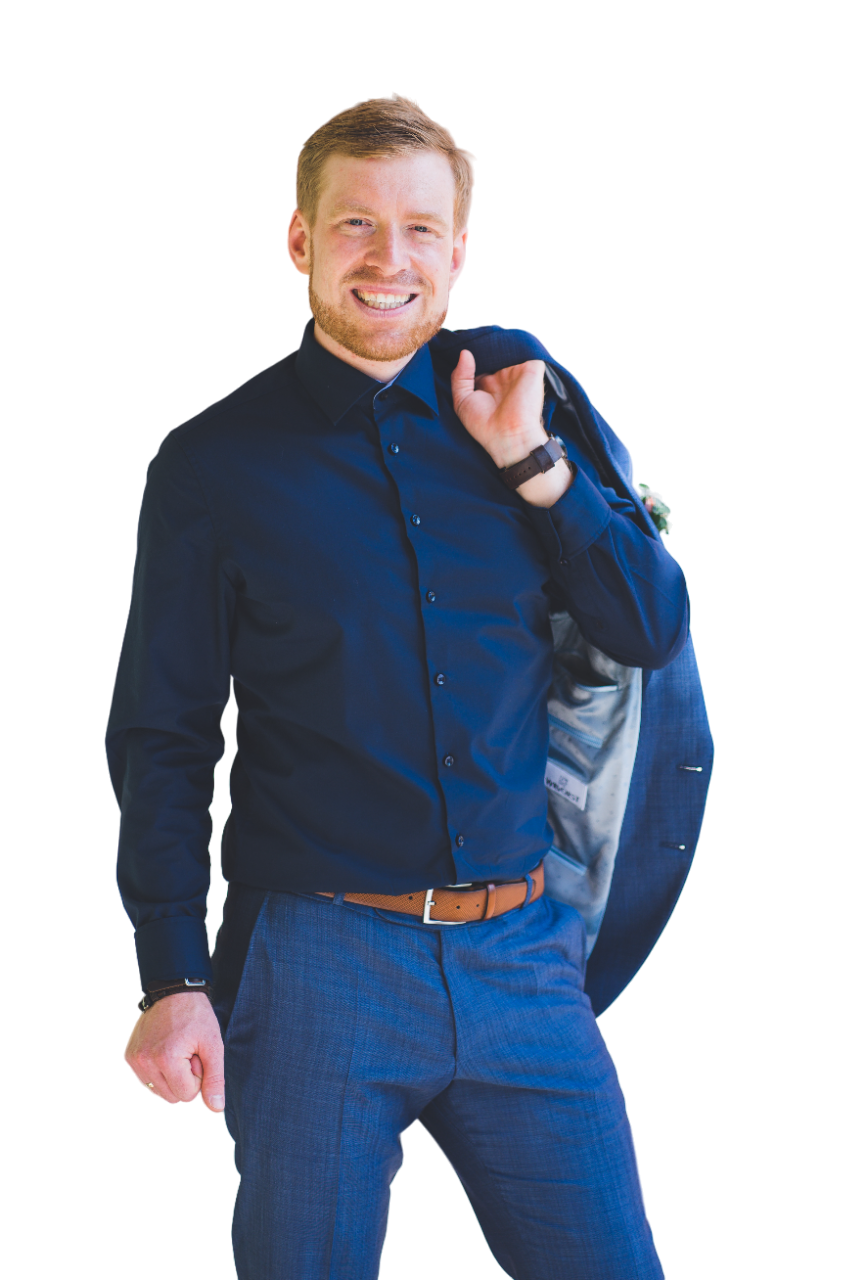
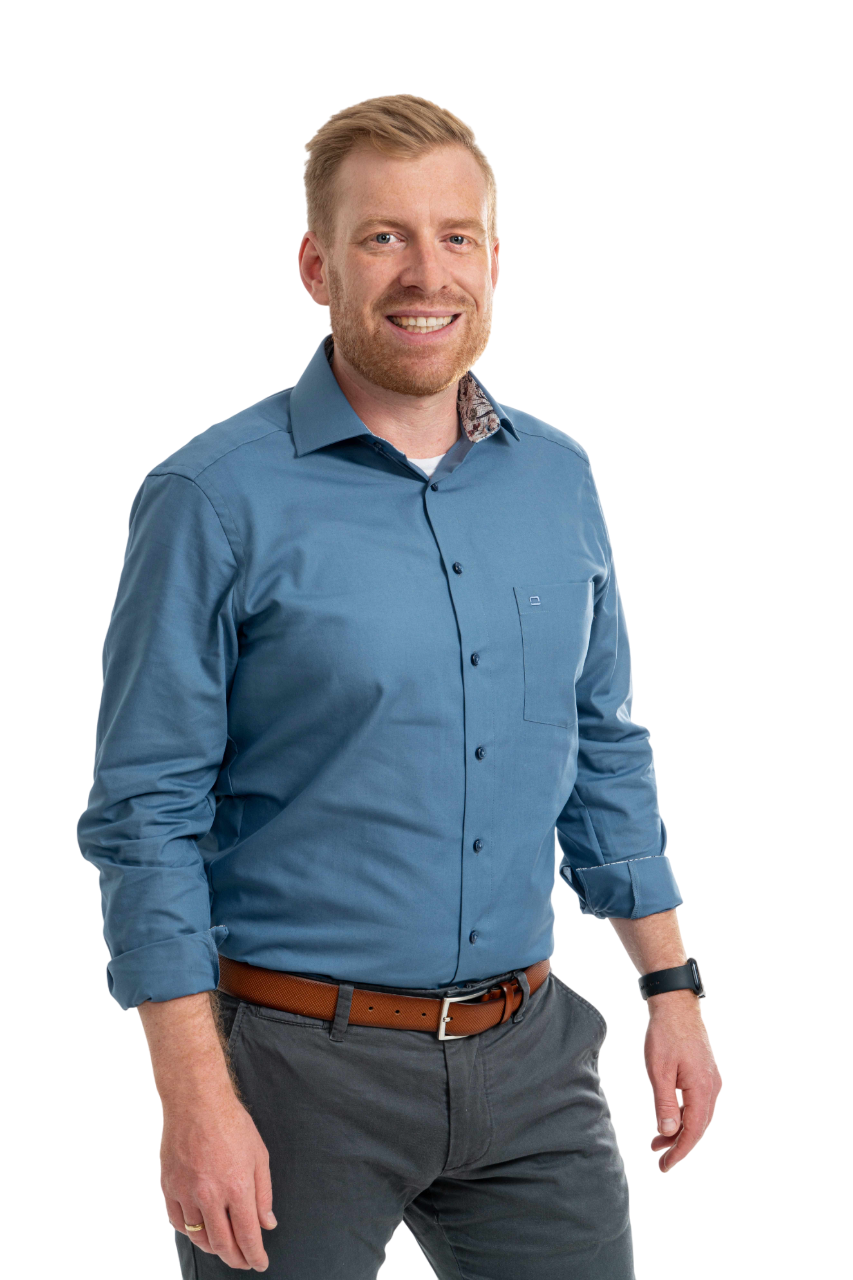
Optimized mobile buttons and interest window popup

diff --git a/src/app/main-content/skill-set/skill-set.component.scss b/src/app/main-content/skill-set/skill-set.component.scss
@@ -107,12 +107,13 @@ section {
     }
 
     &.last-skill {
-      img {
-        filter: brightness(0.73) grayscale(100%) contrast(80%);
+      .last-skill-img {
+        filter: brightness(0) saturate(100%) invert(88%) sepia(99%)
+          saturate(1360%) hue-rotate(326deg) brightness(103%) contrast(98%);
       }
 
       p {
-        color: #bbbbbb;
+        color: rgb(255, 214, 0);
       }
 
       &:hover {
@@ -121,7 +122,7 @@ section {
         }
 
         img {
-          filter: unset;
+          filter: unset !important;
         }
 
         .popup-window {
@@ -133,7 +134,7 @@ section {
 
     .popup-window {
       position: absolute;
-      top: -140px;
+      top: -150px;
       left: 50%;
       transform: translateX(-50%);
       background-color: $color-white;
@@ -150,15 +151,27 @@ section {
 
       .interest-icons {
         display: flex;
+        justify-content: center;
         padding: 8px 32px 0 32px;
+        width: 262px;
+        box-sizing: border-box;
+        gap: 16px;
 
         .interest {
+          display: flex;
+          align-items: center;
+          flex-direction: column;
+
           img {
             height: 50px;
             width: auto;
             object-fit: cover;
             transform: unset !important;
             padding: 8px;
+          }
+
+          p {
+            height: 19px !important;
           }
         }
       }
@@ -234,8 +247,18 @@ section {
 }
 
 @media (max-width: 1100px) {
+  .skill-icons {
+    height: 550px;
+  }
+
   .skill-icon {
     width: 154px !important;
+
+    .skill-icon-p {
+      height: 38px !important;
+      display: flex;
+      align-items: center;
+    }
   }
 }
 
@@ -271,7 +294,7 @@ section {
 
 @media (max-width: 670px) {
   .skill-icons {
-    height: 675px !important;
+    height: 725px !important;
   }
 }
 
@@ -293,8 +316,12 @@ section {
   }
 
   .popup-window {
-    top: -100px !important;
+    top: -128px !important;
     padding: 12px !important;
+  }
+
+  .interest-icons {
+    width: 232px !important;
   }
 
   .interest img {
@@ -304,7 +331,7 @@ section {
   }
 }
 
-@media (max-width: 450px) {
+@media (max-width: 465px) {
   .skill-icon {
     width: 110px !important;
   }
@@ -312,7 +339,7 @@ section {
 
 @media (max-width: 400px) {
   .skill-icons {
-    height: 550px !important;
+    height: 650px !important;
   }
 
   .skill-icon {
@@ -330,7 +357,7 @@ section {
 
   .popup-window {
     top: -100x !important;
-    padding: 12px !important;
+    padding: 16px !important;
 
     p {
       font-size: 12px !important;
@@ -345,14 +372,17 @@ section {
 
   .interest-icons {
     padding: 4px 12px 0 12px !important;
+    width: unset !important;
+    gap: 8px !important;
   }
 
   .buttons {
     gap: 24px;
-
-    button {
-      font-size: 14px;
-      padding: 12px 15px;
-    }
   }
+}
+
+.adjust-font-height {
+  display: flex;
+  align-items: center;
+  height: 32px;
 }

diff --git a/src/app/main-content/skill-set/skill-set.component.html b/src/app/main-content/skill-set/skill-set.component.html
@@ -17,10 +17,11 @@
                 }"
               >
                 <img
+                  class="last-skill-img"
                   src="./assets/img/icons/skillset/frontend/{{ skill.icon }}"
                   alt=""
                 />
-                <p>{{ skill.name }}</p>
+                <p class="skill-icon-p">{{ skill.name }}</p>
                 <div class="popup-window">
                   <p>{{ "eagerToLearn" | translate }}</p>
                   <div class="interest-icons">
@@ -38,13 +39,6 @@
                       />
                       <p>Vue.js</p>
                     </div>
-                    <div class="interest">
-                      <img
-                        src="./assets/img/icons/skillset/interest/csharp.svg"
-                        alt="CSharp"
-                      />
-                      <p>C#</p>
-                    </div>
                   </div>
                 </div>
               </div>
@@ -52,12 +46,45 @@
           </div>
           <div class="skills-backend">
             <div class="skill-icons show">
-              <div class="skill-icon" *ngFor="let skill of skillSetBackend">
+              <div
+                class="skill-icon"
+                *ngFor="let skill of skillSetBackend; let i = index"
+                [ngClass]="{
+                  'last-skill': i === skillSetBackend.length - 1
+                }"
+              >
                 <img
+                  class="last-skill-img"
                   src="./assets/img/icons/skillset/backend/{{ skill.icon }}"
                   alt=""
                 />
-                <p>{{ skill.name }}</p>
+                <p
+                  class="skill-icon-p"
+                  [ngClass]="{
+                    'adjust-font-height': i === skillSetBackend.length - 2
+                  }"
+                >
+                  {{ skill.name }}
+                </p>
+                <div class="popup-window">
+                  <p>{{ "eagerToLearn" | translate }}</p>
+                  <div class="interest-icons">
+                    <div class="interest">
+                      <img
+                        src="./assets/img/icons/skillset/interest/csharp.svg"
+                        alt="CSharp"
+                      />
+                      <p>C#</p>
+                    </div>
+                    <div class="interest">
+                      <img
+                        src="./assets/img/icons/skillset/interest/netcore.svg"
+                        alt=".NET Core"
+                      />
+                      <p>.NET Core</p>
+                    </div>
+                  </div>
+                </div>
               </div>
             </div>
           </div>

diff --git a/src/app/main-content/my-work/my-work.component.scss b/src/app/main-content/my-work/my-work.component.scss
@@ -99,8 +99,11 @@ section {
 
         a {
           button {
-            height: 80px !important;
-            width: 144px !important;
+            height: 80px;
+          }
+
+          .live-test-button {
+            width: 144px;
           }
 
           &:first-child {
@@ -344,6 +347,12 @@ section {
   }
 }
 
+@media (max-width: 600px) {
+  .project-text-buttons {
+    gap: 32px !important;
+  }
+}
+
 @media (max-width: 550px) {
   .circle-4 {
     img {
@@ -352,8 +361,16 @@ section {
   }
 
   .project-text-buttons {
-    flex-direction: column;
-    gap: 16px !important;
+    a {
+      button {
+        height: unset !important;
+      }
+    }
+  }
+
+  .live-test-button {
+    width: unset !important;
+    width: 90px !important;
   }
 }
 
@@ -371,7 +388,7 @@ section {
 
 @media (max-width: 400px) {
   .project-text-buttons {
-    gap: 16px !important;
+    gap: 12px !important;
   }
 
   .circle-2 {
@@ -380,6 +397,10 @@ section {
 
   .circle-3 img {
     width: 180px;
+  }
+
+  .circle-4 {
+    top: 1800px;
   }
 
   .circle-6 {

diff --git a/src/app/main-content/my-work/my-work.component.html b/src/app/main-content/my-work/my-work.component.html
@@ -38,9 +38,9 @@
               href="{{ projects[i].liveTest }}"
               target="_blank"
             >
-              <button class="fill-button">
-                Live <br />
-                {{ "liveTest" | translate }}
+              <button class="fill-button live-test-button">
+                <!-- <p class="live-test-button"></p> -->
+                Live<br />{{ "liveTest" | translate }}
               </button></a
             >
             <a
@@ -50,7 +50,7 @@
               }}"
               target="_blank"
             >
-              <button class="fill-button">Github Frontend</button></a
+              <button class="fill-button">Github<br />Frontend</button></a
             >
             <a
               *ngIf="projects[i].link_backend !== ''"
@@ -59,7 +59,7 @@
               }}"
               target="_blank"
             >
-              <button class="fill-button">Github Backend</button></a
+              <button class="fill-button">Github<br />Backend</button></a
             >
           </div>
         </div>

diff --git a/src/app/main-content/skill-set/skill-set.component.ts b/src/app/main-content/skill-set/skill-set.component.ts
@@ -24,7 +24,7 @@ export class SkillSetComponent {
     { icon: 'css.svg', name: 'CSS' },
     { icon: 'api.svg', name: 'Rest-Api' },
     { icon: 'material_design.svg', name: 'Material Design' },
-    { icon: 'continually_learning.png', name: 'Continually Learning' },
+    { icon: 'continually_learning.svg', name: 'Continually Learning' },
   ];
 
   skillSetBackend = [
@@ -38,6 +38,7 @@ export class SkillSetComponent {
     { icon: 'docker.svg', name: 'Docker' },
     { icon: 'cloud.svg', name: 'Google Cloud' },
     { icon: 'heroku.svg', name: 'Heroku' },
+    { icon: 'continually_learning.svg', name: 'Continually Learning' },
   ];
 
   toggleSkills(type: string): void {

diff --git a/src/styles.scss b/src/styles.scss
@@ -12,6 +12,11 @@ html {
   scroll-behavior: smooth;
 }
 
+html,
+body {
+  height: 100%;
+}
+
 body {
   font-family: "Montserrat";
   margin: 0;
@@ -215,18 +220,10 @@ button {
   }
 }
 
-@media (max-width: 450px) {
+@media (max-width: 550px) {
   button,
   .fill-button {
-    padding: 15px 18px 15px 18px !important;
+    font-size: 14px !important;
+    padding: 12px 15px !important;
   }
-}
-
-html,
-body {
-  height: 100%;
-}
-body {
-  margin: 0;
-  font-family: Roboto, "Helvetica Neue", sans-serif;
 }

diff --git a/src/app/main-content/landing-page/landing-page.component.html b/src/app/main-content/landing-page/landing-page.component.html
@@ -54,8 +54,7 @@
     </div>
 
     <div class="portrait">
-      <!-- <img src="./assets/img/aot/portrait.png" alt="Portrait" /> -->
-      <img src="./assets/img/aot/portrait1.png" alt="Portrait" />
+      <img src="./assets/img/aot/portrait.png" alt="Portrait" />
     </div>
   </div>
 </section>
